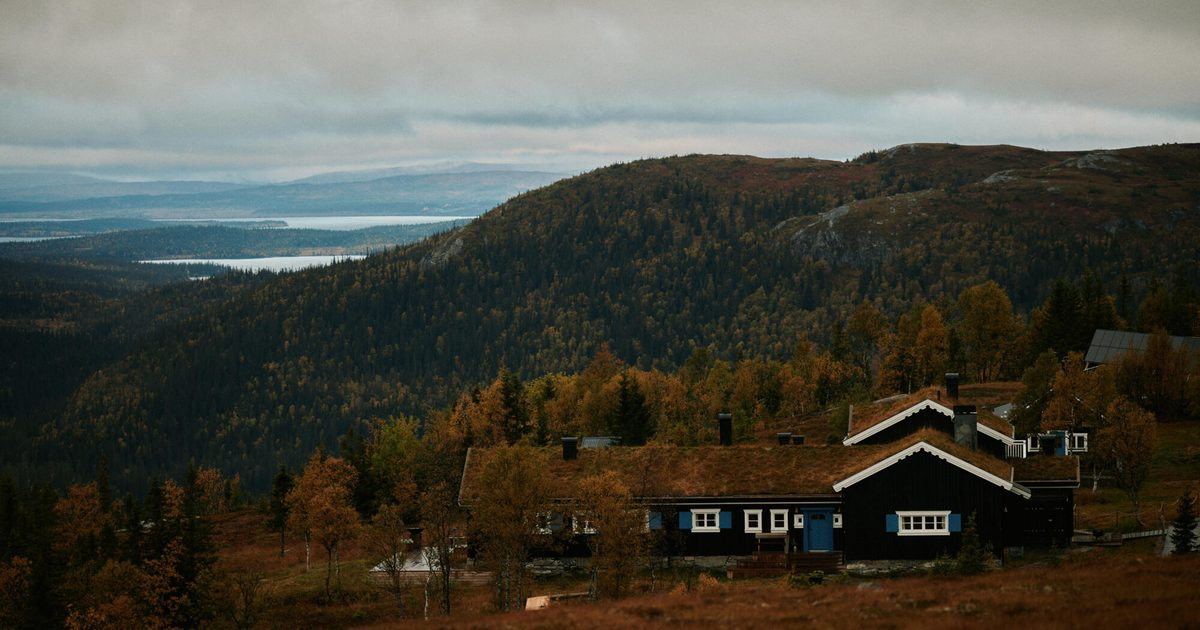
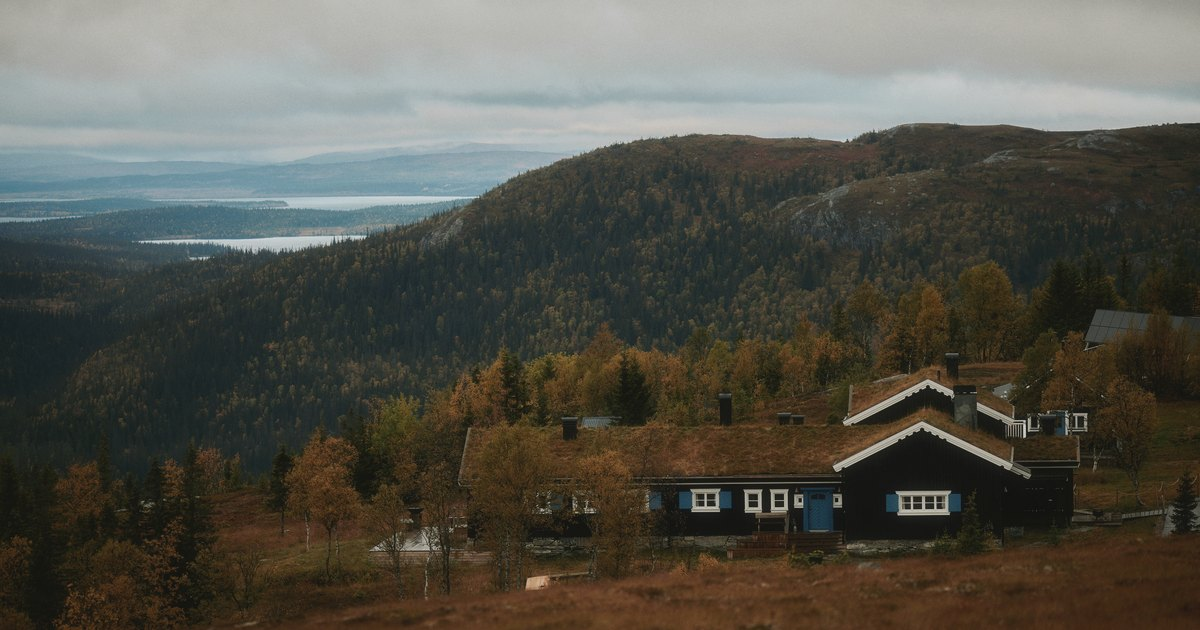
Integritetspolicy på svenska och engelska, och ny delningsbild (Hållfjället i höstljus)
Claude-Session: https://claude.ai/code/session_01PvJLN3KGU2VwY8XGgYZP88

diff --git a/sv/integritetspolicy/index.html b/sv/integritetspolicy/index.html
@@ -1,0 +1,87 @@
+<!DOCTYPE html>
+<html lang="sv">
+<head>
+<meta charset="UTF-8">
+<meta name="viewport" content="width=device-width, initial-scale=1">
+<title>Integritetspolicy – Hållfjället</title>
+<meta name="description" content="Hur Hållfjället tar hand om dina personuppgifter, till exempel när du anmäler dig till nyhetsbrevet.">
+<meta name="theme-color" content="#edebde">
+<link rel="canonical" href="https://www.hallfjallet.se/sv/integritetspolicy/">
+<link rel="alternate" hreflang="sv" href="https://www.hallfjallet.se/sv/integritetspolicy/">
+<link rel="alternate" hreflang="en" href="https://www.hallfjallet.se/en/privacy-policy/">
+<link rel="alternate" hreflang="x-default" href="https://www.hallfjallet.se/en/privacy-policy/">
+<meta property="og:type" content="website">
+<meta property="og:site_name" content="Hållfjället">
+<meta property="og:title" content="Integritetspolicy – Hållfjället">
+<meta property="og:description" content="Hur Hållfjället tar hand om dina personuppgifter, till exempel när du anmäler dig till nyhetsbrevet.">
+<meta property="og:url" content="https://www.hallfjallet.se/sv/integritetspolicy/">
+<meta property="og:image" content="https://www.hallfjallet.se/assets/img/og.jpg">
+<meta property="og:locale" content="sv_SE">
+<meta name="twitter:card" content="summary_large_image">
+<link rel="icon" type="image/png" sizes="32x32" href="/ikon-hf-32.png?v=2">
+<link rel="icon" type="image/png" sizes="16x16" href="/ikon-hf-16.png?v=2">
+<link rel="icon" type="image/png" sizes="192x192" href="/ikon-hf-192.png?v=2">
+<link rel="icon" type="image/x-icon" href="/favicon.ico?v=2">
+<link rel="apple-touch-icon" sizes="180x180" href="/apple-touch-icon.png?v=2">
+<link rel="preload" as="image" href="/assets/img/hallfjallet-logo.png">
+<link rel="preload" href="/assets/fonts/OregonLDO.woff" as="font" type="font/woff" crossorigin>
+<link rel="preload" href="/assets/fonts/SuisseNeue-Regular-WebS.woff" as="font" type="font/woff" crossorigin>
+<link rel="stylesheet" href="/assets/hf.css?v=16">
+</head>
+<body class="sida-policy">
+<a class="skip" href="#innehall">Hoppa till innehållet</a>
+<a class="logga" href="/sv/"><img src="/assets/img/hallfjallet-logo.png" alt="Hållfjället" width="291" height="213"></a>
+<div class="huvud">
+  <a class="sprakval" href="/en/privacy-policy/" hreflang="en" lang="en">English</a>
+  <a class="boka" href="https://online.bookvisit.com/package?channelid=b6e866a4-7126-457c-83b1-7e566d886ac0&amp;langid=1" target="_blank" rel="noopener">Boka</a>
+  <button class="menyknapp" type="button" aria-expanded="false" aria-controls="meny"><span class="sr">Meny</span><svg viewBox="0 0 20 20" aria-hidden="true"><path d="M0 3h20v2H0V3zm0 6h20v2H0V9zm0 6h20v2H0v-2z" fill="currentColor"/></svg></button>
+</div>
+<nav class="meny" id="meny" aria-label="Meny" aria-hidden="true" data-bild="/assets/img/hero-martini-{w}.webp" data-skog="/assets/img/hero-fjallet-vinter-{s}.webp">
+  <button class="stang" type="button"><span class="sr">Stäng menyn</span><svg viewBox="0 0 20 20" aria-hidden="true"><path d="M2 2l16 16M18 2L2 18" stroke="currentColor" stroke-width="2"/></svg></button>
+  <ul>
+      <li><a href="/sv/#hitta-hem-i-det-vilda">Hitta hem i det vilda</a></li>
+      <li><a href="/sv/#mat-dryck">Till bords</a></li>
+      <li><a href="/sv/#bo-hos-oss">Bo hos oss</a></li>
+      <li><a href="/sv/#var-historia">Vår historia</a></li>
+      <li><a href="/sv/#hitta-hit">Hitta hit</a></li>
+      <li><a href="/sv/#boka">Boka</a></li>
+      <li><a href="/sv/nu-pa-hallfjallet/">Aktiviteter på fjället</a></li>
+      <li><a href="/sv/jobba-hos-oss/" aria-current="page">Jobba hos oss</a></li>
+      <li><a href="/sv/#newsletter">Nyhetsbrev</a></li>
+  </ul>
+</nav>
+<main id="innehall">
+<section class="avsnitt policy">
+  <div class="kol">
+    <h1>Integritetspolicy</h1>
+    <div class="text">
+<p class="ingress">Vi är varsamma med dina uppgifter. Här berättar vi kort vilka personuppgifter vi tar emot via hemsidan och hur vi tar hand om dem.</p>
+<h2>Vem ansvarar</h2>
+<p>Hållfjällsgården AB ansvarar för de personuppgifter som beskrivs här. Du når oss på <a class="epost" href="mailto:info@hallfjallet.se">info@hallfjallet.se</a> eller <a class="epost" href="tel:+46647690466">+46&nbsp;647&nbsp;690&nbsp;466</a>.</p>
+<h2>Nyhetsbrevet</h2>
+<p>När du anmäler dig till vårt nyhetsbrev sparar vi ditt förnamn, efternamn och din e-postadress. Vi använder dem bara för att skicka nyhetsbrevet till dig, och vi gör det med ditt samtycke.</p>
+<p>Uppgifterna sparas hos vår leverantör Mailchimp, som kan lagra dem utanför EU. Överföringen sker med det skydd som EU:s regler kräver.</p>
+<p>I varje nyhetsbrev finns en länk där du kan avsluta prenumerationen. Då slutar vi skicka, och vi sparar inte dina uppgifter längre än du prenumererar.</p>
+<h2>När du bokar</h2>
+<p>Bokningar görs via Bookvisit. De uppgifter du lämnar när du bokar använder vi för att ta emot dig och ordna din vistelse. Bookvisit har en egen integritetspolicy som du hittar på bokningssidan.</p>
+<h2>När du skriver till oss</h2>
+<p>Skriver du till oss använder vi dina uppgifter för att svara dig och hjälpa dig med din vistelse.</p>
+<h2>Kakor</h2>
+<p>Hemsidan använder inga kakor (cookies) för statistik eller marknadsföring.</p>
+<h2>Dina rättigheter</h2>
+<p>Du har rätt att få veta vilka uppgifter vi har om dig, och att få dem rättade eller raderade. Hör av dig till oss så hjälper vi dig. Är du inte nöjd med hur vi hanterar dina uppgifter kan du vända dig till Integritetsskyddsmyndigheten (IMY).</p>
+<p class="uppdaterad">Senast uppdaterad i november 2026.</p>
+    </div>
+  </div>
+</section>
+</main>
+<footer class="sidfot">
+  <img class="fotlogga" src="/assets/img/hallfjallet-logo.png" alt="Hållfjället" width="291" height="213" loading="lazy">
+  <p><a href="mailto:info@hallfjallet.se">info@hallfjallet.se</a><span class="prick" aria-hidden="true">·</span><a href="tel:+46647690466">+46 (0) 647 69 04 66</a></p>
+  <p><a href="/sv/#newsletter">Nyhetsbrev</a><span class="prick" aria-hidden="true">·</span><a href="/sv/jobba-hos-oss/">Jobba hos oss</a><span class="prick" aria-hidden="true">·</span><a href="/sv/integritetspolicy/">Integritetspolicy</a></p>
+  <p class="copy">Copyright © 2026<span class="prick" aria-hidden="true">·</span>Hållfjällsgården AB<span class="prick" aria-hidden="true">·</span>All Rights Reserved.</p>
+</footer>
+<button class="till-toppen" type="button"><span class="sr">Till toppen</span><svg viewBox="0 0 14 14" aria-hidden="true"><path d="M2 9.5l5-5 5 5" fill="none" stroke="currentColor" stroke-width="1.4"/></svg></button>
+<script src="/assets/hf.js?v=16" defer></script>
+</body>
+</html>

diff --git a/en/privacy-policy/index.html b/en/privacy-policy/index.html
@@ -1,0 +1,87 @@
+<!DOCTYPE html>
+<html lang="en">
+<head>
+<meta charset="UTF-8">
+<meta name="viewport" content="width=device-width, initial-scale=1">
+<title>Privacy policy – Hållfjället</title>
+<meta name="description" content="How Hållfjället looks after your personal data, for example when you sign up for the newsletter.">
+<meta name="theme-color" content="#edebde">
+<link rel="canonical" href="https://www.hallfjallet.se/en/privacy-policy/">
+<link rel="alternate" hreflang="sv" href="https://www.hallfjallet.se/sv/integritetspolicy/">
+<link rel="alternate" hreflang="en" href="https://www.hallfjallet.se/en/privacy-policy/">
+<link rel="alternate" hreflang="x-default" href="https://www.hallfjallet.se/en/privacy-policy/">
+<meta property="og:type" content="website">
+<meta property="og:site_name" content="Hållfjället">
+<meta property="og:title" content="Privacy policy – Hållfjället">
+<meta property="og:description" content="How Hållfjället looks after your personal data, for example when you sign up for the newsletter.">
+<meta property="og:url" content="https://www.hallfjallet.se/en/privacy-policy/">
+<meta property="og:image" content="https://www.hallfjallet.se/assets/img/og.jpg">
+<meta property="og:locale" content="en_GB">
+<meta name="twitter:card" content="summary_large_image">
+<link rel="icon" type="image/png" sizes="32x32" href="/ikon-hf-32.png?v=2">
+<link rel="icon" type="image/png" sizes="16x16" href="/ikon-hf-16.png?v=2">
+<link rel="icon" type="image/png" sizes="192x192" href="/ikon-hf-192.png?v=2">
+<link rel="icon" type="image/x-icon" href="/favicon.ico?v=2">
+<link rel="apple-touch-icon" sizes="180x180" href="/apple-touch-icon.png?v=2">
+<link rel="preload" as="image" href="/assets/img/hallfjallet-logo.png">
+<link rel="preload" href="/assets/fonts/OregonLDO.woff" as="font" type="font/woff" crossorigin>
+<link rel="preload" href="/assets/fonts/SuisseNeue-Regular-WebS.woff" as="font" type="font/woff" crossorigin>
+<link rel="stylesheet" href="/assets/hf.css?v=16">
+</head>
+<body class="sida-policy">
+<a class="skip" href="#innehall">Skip to content</a>
+<a class="logga" href="/en/"><img src="/assets/img/hallfjallet-logo.png" alt="Hållfjället" width="291" height="213"></a>
+<div class="huvud">
+  <a class="sprakval" href="/sv/integritetspolicy/" hreflang="sv" lang="sv">Svenska</a>
+  <a class="boka" href="https://online.bookvisit.com/package?channelid=b6e866a4-7126-457c-83b1-7e566d886ac0&amp;langid=2" target="_blank" rel="noopener">Book</a>
+  <button class="menyknapp" type="button" aria-expanded="false" aria-controls="meny"><span class="sr">Menu</span><svg viewBox="0 0 20 20" aria-hidden="true"><path d="M0 3h20v2H0V3zm0 6h20v2H0V9zm0 6h20v2H0v-2z" fill="currentColor"/></svg></button>
+</div>
+<nav class="meny" id="meny" aria-label="Menu" aria-hidden="true" data-bild="/assets/img/hero-martini-{w}.webp" data-skog="/assets/img/hero-fjallet-vinter-{s}.webp">
+  <button class="stang" type="button"><span class="sr">Close the menu</span><svg viewBox="0 0 20 20" aria-hidden="true"><path d="M2 2l16 16M18 2L2 18" stroke="currentColor" stroke-width="2"/></svg></button>
+  <ul>
+      <li><a href="/en/#home-in-the-wild">Your home in the wild</a></li>
+      <li><a href="/en/#food-beverage">At the table</a></li>
+      <li><a href="/en/#stay-with-us">Stay with us</a></li>
+      <li><a href="/en/#our-story">Our Story</a></li>
+      <li><a href="/en/#getting-here">Getting here</a></li>
+      <li><a href="/en/#reservation">Reservation</a></li>
+      <li><a href="/en/whats-on/">Activities in the Mountains</a></li>
+      <li><a href="/en/work-with-us/" aria-current="page">Work with us</a></li>
+      <li><a href="/en/#newsletter">Newsletter</a></li>
+  </ul>
+</nav>
+<main id="innehall">
+<section class="avsnitt policy">
+  <div class="kol">
+    <h1>Privacy policy</h1>
+    <div class="text">
+<p class="ingress">We take good care of your information. Here we briefly explain which personal data we receive through the website and how we look after it.</p>
+<h2>Who is responsible</h2>
+<p>Hållfjällsgården AB is responsible for the personal data described here. You can reach us at <a class="epost" href="mailto:info@hallfjallet.se">info@hallfjallet.se</a> or <a class="epost" href="tel:+46647690466">+46&nbsp;647&nbsp;690&nbsp;466</a>.</p>
+<h2>The newsletter</h2>
+<p>When you sign up for our newsletter, we keep your first name, last name and email address. We use them only to send you the newsletter, and we do so with your consent.</p>
+<p>The information is stored with our provider Mailchimp, which may store it outside the EU. Any transfer is made with the safeguards required by EU rules.</p>
+<p>Every newsletter has a link to unsubscribe. When you do, we stop sending, and we do not keep your information for longer than you are subscribed.</p>
+<h2>When you book</h2>
+<p>Bookings are made through Bookvisit. We use the information you give when booking to welcome you and arrange your stay. Bookvisit has its own privacy policy, which you can find on the booking page.</p>
+<h2>When you write to us</h2>
+<p>If you write to us, we use your information to reply and to help you with your stay.</p>
+<h2>Cookies</h2>
+<p>The website does not use cookies for statistics or marketing.</p>
+<h2>Your rights</h2>
+<p>You have the right to know what information we hold about you, and to have it corrected or deleted. Get in touch and we will help you. If you are not happy with how we handle your information, you can contact the Swedish Authority for Privacy Protection (IMY).</p>
+<p class="uppdaterad">Last updated November 2026.</p>
+    </div>
+  </div>
+</section>
+</main>
+<footer class="sidfot">
+  <img class="fotlogga" src="/assets/img/hallfjallet-logo.png" alt="Hållfjället" width="291" height="213" loading="lazy">
+  <p><a href="mailto:info@hallfjallet.se">info@hallfjallet.se</a><span class="prick" aria-hidden="true">·</span><a href="tel:+46647690466">+46 (0) 647 69 04 66</a></p>
+  <p><a href="/en/#newsletter">Newsletter</a><span class="prick" aria-hidden="true">·</span><a href="/en/work-with-us/">Work With Us</a><span class="prick" aria-hidden="true">·</span><a href="/en/privacy-policy/">Privacy Policy</a></p>
+  <p class="copy">Copyright © 2026<span class="prick" aria-hidden="true">·</span>Hållfjällsgården AB<span class="prick" aria-hidden="true">·</span>All Rights Reserved.</p>
+</footer>
+<button class="till-toppen" type="button"><span class="sr">Back to top</span><svg viewBox="0 0 14 14" aria-hidden="true"><path d="M2 9.5l5-5 5 5" fill="none" stroke="currentColor" stroke-width="1.4"/></svg></button>
+<script src="/assets/hf.js?v=16" defer></script>
+</body>
+</html>

diff --git a/sv/index.html b/sv/index.html
@@ -27,7 +27,7 @@
 <link rel="preload" href="/assets/fonts/OregonLDO.woff" as="font" type="font/woff" crossorigin>
 <link rel="preload" href="/assets/fonts/SuisseNeue-Regular-WebS.woff" as="font" type="font/woff" crossorigin>
 <link rel="preload" as="image" href="/assets/img/hero-frusen-sjo-1280.webp" imagesrcset="/assets/img/hero-frusen-sjo-640.webp 640w, /assets/img/hero-frusen-sjo-1280.webp 1280w, /assets/img/hero-frusen-sjo-1920.webp 1920w" imagesizes="100vw">
-<link rel="stylesheet" href="/assets/hf.css?v=15">
+<link rel="stylesheet" href="/assets/hf.css?v=16">
 <script type="application/ld+json">{"@context": "https://schema.org", "@graph": [{"@type": "Hotel", "name": "Hållfjället", "url": "https://www.hallfjallet.se/", "description": "Small mountain hotel and restaurant in roadless country above Ottsjö in the southern Åre mountains, Sweden.", "email": "info@hallfjallet.se", "telephone": "+46647690466", "image": "https://www.hallfjallet.se/assets/img/og.jpg", "sameAs": ["https://instagram.com/hallfjallsgarden"], "address": {"@type": "PostalAddress", "addressLocality": "Ottsjö", "addressRegion": "Jämtland", "addressCountry": "SE"}, "geo": {"@type": "GeoCoordinates", "latitude": 63.25414, "longitude": 12.96636}}, {"@type": "Restaurant", "name": "Hållfjället", "url": "https://www.hallfjallet.se/", "servesCuisine": "Seasonal Nordic", "telephone": "+46647690466", "geo": {"@type": "GeoCoordinates", "latitude": 63.25414, "longitude": 12.96636}, "address": {"@type": "PostalAddress", "addressLocality": "Ottsjö", "addressCountry": "SE"}}]}</script>
 <noscript><style>.hero .hero-rubrik, .hero .hero-pil, .hero .sprak-under, .hero .hero-text::before { animation-play-state: running !important; }</style></noscript>
 </head>
@@ -192,7 +192,7 @@ Ottsjö ligger 20 minuter med bil från Undersåkers tågstation och 30 minuter 
       <div class="nb-falla" aria-hidden="true"><input type="text" name="b_05536de2f7bf0c58fb6f27705_8bca900262" tabindex="-1" value=""></div>
       <button class="knapp nb-skicka" type="submit">Följ våra berättelser<svg viewBox="0 0 16 16" aria-hidden="true"><path d="M1.5 3.5h13v9h-13zM1.5 3.5L8 9l6.5-5.5" fill="none" stroke="currentColor" stroke-width="1.2"/></svg></button>
       <p class="nb-status" role="status" aria-live="polite"></p>
-      <p class="nb-fot">Du kan avsluta prenumerationen när du vill.</p>
+      <p class="nb-fot">Du kan avsluta prenumerationen när du vill. Läs mer i vår <a href="/sv/integritetspolicy/">integritetspolicy</a>.</p>
     </form>
   </div></div>
 </section>
@@ -202,10 +202,10 @@ Ottsjö ligger 20 minuter med bil från Undersåkers tågstation och 30 minuter 
 <footer class="sidfot">
   <img class="fotlogga" src="/assets/img/hallfjallet-logo.png" alt="Hållfjället" width="291" height="213" loading="lazy">
   <p><a href="mailto:info@hallfjallet.se">info@hallfjallet.se</a><span class="prick" aria-hidden="true">·</span><a href="tel:+46647690466">+46 (0) 647 69 04 66</a></p>
-  <p><a href="#newsletter">Nyhetsbrev</a><span class="prick" aria-hidden="true">·</span><a href="/sv/jobba-hos-oss/">Jobba hos oss</a></p>
+  <p><a href="#newsletter">Nyhetsbrev</a><span class="prick" aria-hidden="true">·</span><a href="/sv/jobba-hos-oss/">Jobba hos oss</a><span class="prick" aria-hidden="true">·</span><a href="/sv/integritetspolicy/">Integritetspolicy</a></p>
   <p class="copy">Copyright © 2026<span class="prick" aria-hidden="true">·</span>Hållfjällsgården AB<span class="prick" aria-hidden="true">·</span>All Rights Reserved.</p>
 </footer>
 <button class="till-toppen" type="button"><span class="sr">Till toppen</span><svg viewBox="0 0 14 14" aria-hidden="true"><path d="M2 9.5l5-5 5 5" fill="none" stroke="currentColor" stroke-width="1.4"/></svg></button>
-<script src="/assets/hf.js?v=15" defer></script>
+<script src="/assets/hf.js?v=16" defer></script>
 </body>
 </html>

diff --git a/en/index.html b/en/index.html
@@ -27,7 +27,7 @@
 <link rel="preload" href="/assets/fonts/OregonLDO.woff" as="font" type="font/woff" crossorigin>
 <link rel="preload" href="/assets/fonts/SuisseNeue-Regular-WebS.woff" as="font" type="font/woff" crossorigin>
 <link rel="preload" as="image" href="/assets/img/hero-frusen-sjo-1280.webp" imagesrcset="/assets/img/hero-frusen-sjo-640.webp 640w, /assets/img/hero-frusen-sjo-1280.webp 1280w, /assets/img/hero-frusen-sjo-1920.webp 1920w" imagesizes="100vw">
-<link rel="stylesheet" href="/assets/hf.css?v=15">
+<link rel="stylesheet" href="/assets/hf.css?v=16">
 <script type="application/ld+json">{"@context": "https://schema.org", "@graph": [{"@type": "Hotel", "name": "Hållfjället", "url": "https://www.hallfjallet.se/", "description": "Small mountain hotel and restaurant in roadless country above Ottsjö in the southern Åre mountains, Sweden.", "email": "info@hallfjallet.se", "telephone": "+46647690466", "image": "https://www.hallfjallet.se/assets/img/og.jpg", "sameAs": ["https://instagram.com/hallfjallsgarden"], "address": {"@type": "PostalAddress", "addressLocality": "Ottsjö", "addressRegion": "Jämtland", "addressCountry": "SE"}, "geo": {"@type": "GeoCoordinates", "latitude": 63.25414, "longitude": 12.96636}}, {"@type": "Restaurant", "name": "Hållfjället", "url": "https://www.hallfjallet.se/", "servesCuisine": "Seasonal Nordic", "telephone": "+46647690466", "geo": {"@type": "GeoCoordinates", "latitude": 63.25414, "longitude": 12.96636}, "address": {"@type": "PostalAddress", "addressLocality": "Ottsjö", "addressCountry": "SE"}}]}</script>
 <noscript><style>.hero .hero-rubrik, .hero .hero-pil, .hero .sprak-under, .hero .hero-text::before { animation-play-state: running !important; }</style></noscript>
 </head>
@@ -193,7 +193,7 @@ Contact us and we’ll gladly tell you more.</p>
       <div class="nb-falla" aria-hidden="true"><input type="text" name="b_05536de2f7bf0c58fb6f27705_8bca900262" tabindex="-1" value=""></div>
       <button class="knapp nb-skicka" type="submit">Follow our stories<svg viewBox="0 0 16 16" aria-hidden="true"><path d="M1.5 3.5h13v9h-13zM1.5 3.5L8 9l6.5-5.5" fill="none" stroke="currentColor" stroke-width="1.2"/></svg></button>
       <p class="nb-status" role="status" aria-live="polite"></p>
-      <p class="nb-fot">You can unsubscribe at any time.</p>
+      <p class="nb-fot">You can unsubscribe at any time. Read more in our <a href="/en/privacy-policy/">privacy policy</a>.</p>
     </form>
   </div></div>
 </section>
@@ -203,10 +203,10 @@ Contact us and we’ll gladly tell you more.</p>
 <footer class="sidfot">
   <img class="fotlogga" src="/assets/img/hallfjallet-logo.png" alt="Hållfjället" width="291" height="213" loading="lazy">
   <p><a href="mailto:info@hallfjallet.se">info@hallfjallet.se</a><span class="prick" aria-hidden="true">·</span><a href="tel:+46647690466">+46 (0) 647 69 04 66</a></p>
-  <p><a href="#newsletter">Newsletter</a><span class="prick" aria-hidden="true">·</span><a href="/en/work-with-us/">Work With Us</a></p>
+  <p><a href="#newsletter">Newsletter</a><span class="prick" aria-hidden="true">·</span><a href="/en/work-with-us/">Work With Us</a><span class="prick" aria-hidden="true">·</span><a href="/en/privacy-policy/">Privacy Policy</a></p>
   <p class="copy">Copyright © 2026<span class="prick" aria-hidden="true">·</span>Hållfjällsgården AB<span class="prick" aria-hidden="true">·</span>All Rights Reserved.</p>
 </footer>
 <button class="till-toppen" type="button"><span class="sr">Back to top</span><svg viewBox="0 0 14 14" aria-hidden="true"><path d="M2 9.5l5-5 5 5" fill="none" stroke="currentColor" stroke-width="1.4"/></svg></button>
-<script src="/assets/hf.js?v=15" defer></script>
+<script src="/assets/hf.js?v=16" defer></script>
 </body>
 </html>

diff --git a/sv/nu-pa-hallfjallet/index.html b/sv/nu-pa-hallfjallet/index.html
@@ -26,7 +26,7 @@
 <link rel="preload" as="image" href="/assets/img/hallfjallet-logo.png">
 <link rel="preload" href="/assets/fonts/OregonLDO.woff" as="font" type="font/woff" crossorigin>
 <link rel="preload" href="/assets/fonts/SuisseNeue-Regular-WebS.woff" as="font" type="font/woff" crossorigin>
-<link rel="stylesheet" href="/assets/hf.css?v=15">
+<link rel="stylesheet" href="/assets/hf.css?v=16">
 </head>
 <body class="sida-dagar">
 <a class="skip" href="#innehall">Hoppa till innehållet</a>
@@ -166,10 +166,10 @@ En eld görs upp, kaffepannan åker fram och så småningom vankas något varmt 
 <footer class="sidfot">
   <img class="fotlogga" src="/assets/img/hallfjallet-logo.png" alt="Hållfjället" width="291" height="213" loading="lazy">
   <p><a href="mailto:info@hallfjallet.se">info@hallfjallet.se</a><span class="prick" aria-hidden="true">·</span><a href="tel:+46647690466">+46 (0) 647 69 04 66</a></p>
-  <p><a href="/sv/#newsletter">Nyhetsbrev</a><span class="prick" aria-hidden="true">·</span><a href="/sv/jobba-hos-oss/">Jobba hos oss</a></p>
+  <p><a href="/sv/#newsletter">Nyhetsbrev</a><span class="prick" aria-hidden="true">·</span><a href="/sv/jobba-hos-oss/">Jobba hos oss</a><span class="prick" aria-hidden="true">·</span><a href="/sv/integritetspolicy/">Integritetspolicy</a></p>
   <p class="copy">Copyright © 2026<span class="prick" aria-hidden="true">·</span>Hållfjällsgården AB<span class="prick" aria-hidden="true">·</span>All Rights Reserved.</p>
 </footer>
 <button class="till-toppen" type="button"><span class="sr">Till toppen</span><svg viewBox="0 0 14 14" aria-hidden="true"><path d="M2 9.5l5-5 5 5" fill="none" stroke="currentColor" stroke-width="1.4"/></svg></button>
-<script src="/assets/hf.js?v=15" defer></script>
+<script src="/assets/hf.js?v=16" defer></script>
 </body>
 </html>

diff --git a/sv/jobba-hos-oss/index.html b/sv/jobba-hos-oss/index.html
@@ -26,7 +26,7 @@
 <link rel="preload" as="image" href="/assets/img/hallfjallet-logo.png">
 <link rel="preload" href="/assets/fonts/OregonLDO.woff" as="font" type="font/woff" crossorigin>
 <link rel="preload" href="/assets/fonts/SuisseNeue-Regular-WebS.woff" as="font" type="font/woff" crossorigin>
-<link rel="stylesheet" href="/assets/hf.css?v=15">
+<link rel="stylesheet" href="/assets/hf.css?v=16">
 </head>
 <body class="sida-jobb">
 <a class="skip" href="#innehall">Hoppa till innehållet</a>
@@ -122,10 +122,10 @@
 <footer class="sidfot">
   <img class="fotlogga" src="/assets/img/hallfjallet-logo.png" alt="Hållfjället" width="291" height="213" loading="lazy">
   <p><a href="mailto:info@hallfjallet.se">info@hallfjallet.se</a><span class="prick" aria-hidden="true">·</span><a href="tel:+46647690466">+46 (0) 647 69 04 66</a></p>
-  <p><a href="/sv/#newsletter">Nyhetsbrev</a><span class="prick" aria-hidden="true">·</span><a href="/sv/jobba-hos-oss/">Jobba hos oss</a></p>
+  <p><a href="/sv/#newsletter">Nyhetsbrev</a><span class="prick" aria-hidden="true">·</span><a href="/sv/jobba-hos-oss/">Jobba hos oss</a><span class="prick" aria-hidden="true">·</span><a href="/sv/integritetspolicy/">Integritetspolicy</a></p>
   <p class="copy">Copyright © 2026<span class="prick" aria-hidden="true">·</span>Hållfjällsgården AB<span class="prick" aria-hidden="true">·</span>All Rights Reserved.</p>
 </footer>
 <button class="till-toppen" type="button"><span class="sr">Till toppen</span><svg viewBox="0 0 14 14" aria-hidden="true"><path d="M2 9.5l5-5 5 5" fill="none" stroke="currentColor" stroke-width="1.4"/></svg></button>
-<script src="/assets/hf.js?v=15" defer></script>
+<script src="/assets/hf.js?v=16" defer></script>
 </body>
 </html>

diff --git a/en/whats-on/index.html b/en/whats-on/index.html
@@ -26,7 +26,7 @@
 <link rel="preload" as="image" href="/assets/img/hallfjallet-logo.png">
 <link rel="preload" href="/assets/fonts/OregonLDO.woff" as="font" type="font/woff" crossorigin>
 <link rel="preload" href="/assets/fonts/SuisseNeue-Regular-WebS.woff" as="font" type="font/woff" crossorigin>
-<link rel="stylesheet" href="/assets/hf.css?v=15">
+<link rel="stylesheet" href="/assets/hf.css?v=16">
 </head>
 <body class="sida-dagar">
 <a class="skip" href="#innehall">Skip to content</a>
@@ -163,10 +163,10 @@
 <footer class="sidfot">
   <img class="fotlogga" src="/assets/img/hallfjallet-logo.png" alt="Hållfjället" width="291" height="213" loading="lazy">
   <p><a href="mailto:info@hallfjallet.se">info@hallfjallet.se</a><span class="prick" aria-hidden="true">·</span><a href="tel:+46647690466">+46 (0) 647 69 04 66</a></p>
-  <p><a href="/en/#newsletter">Newsletter</a><span class="prick" aria-hidden="true">·</span><a href="/en/work-with-us/">Work With Us</a></p>
+  <p><a href="/en/#newsletter">Newsletter</a><span class="prick" aria-hidden="true">·</span><a href="/en/work-with-us/">Work With Us</a><span class="prick" aria-hidden="true">·</span><a href="/en/privacy-policy/">Privacy Policy</a></p>
   <p class="copy">Copyright © 2026<span class="prick" aria-hidden="true">·</span>Hållfjällsgården AB<span class="prick" aria-hidden="true">·</span>All Rights Reserved.</p>
 </footer>
 <button class="till-toppen" type="button"><span class="sr">Back to top</span><svg viewBox="0 0 14 14" aria-hidden="true"><path d="M2 9.5l5-5 5 5" fill="none" stroke="currentColor" stroke-width="1.4"/></svg></button>
-<script src="/assets/hf.js?v=15" defer></script>
+<script src="/assets/hf.js?v=16" defer></script>
 </body>
 </html>

diff --git a/en/work-with-us/index.html b/en/work-with-us/index.html
@@ -26,7 +26,7 @@
 <link rel="preload" as="image" href="/assets/img/hallfjallet-logo.png">
 <link rel="preload" href="/assets/fonts/OregonLDO.woff" as="font" type="font/woff" crossorigin>
 <link rel="preload" href="/assets/fonts/SuisseNeue-Regular-WebS.woff" as="font" type="font/woff" crossorigin>
-<link rel="stylesheet" href="/assets/hf.css?v=15">
+<link rel="stylesheet" href="/assets/hf.css?v=16">
 </head>
 <body class="sida-jobb">
 <a class="skip" href="#innehall">Skip to content</a>
@@ -124,10 +124,10 @@
 <footer class="sidfot">
   <img class="fotlogga" src="/assets/img/hallfjallet-logo.png" alt="Hållfjället" width="291" height="213" loading="lazy">
   <p><a href="mailto:info@hallfjallet.se">info@hallfjallet.se</a><span class="prick" aria-hidden="true">·</span><a href="tel:+46647690466">+46 (0) 647 69 04 66</a></p>
-  <p><a href="/en/#newsletter">Newsletter</a><span class="prick" aria-hidden="true">·</span><a href="/en/work-with-us/">Work With Us</a></p>
+  <p><a href="/en/#newsletter">Newsletter</a><span class="prick" aria-hidden="true">·</span><a href="/en/work-with-us/">Work With Us</a><span class="prick" aria-hidden="true">·</span><a href="/en/privacy-policy/">Privacy Policy</a></p>
   <p class="copy">Copyright © 2026<span class="prick" aria-hidden="true">·</span>Hållfjällsgården AB<span class="prick" aria-hidden="true">·</span>All Rights Reserved.</p>
 </footer>
 <button class="till-toppen" type="button"><span class="sr">Back to top</span><svg viewBox="0 0 14 14" aria-hidden="true"><path d="M2 9.5l5-5 5 5" fill="none" stroke="currentColor" stroke-width="1.4"/></svg></button>
-<script src="/assets/hf.js?v=15" defer></script>
+<script src="/assets/hf.js?v=16" defer></script>
 </body>
 </html>

diff --git a/assets/hf.css b/assets/hf.css
@@ -381,3 +381,13 @@ a.epost { text-decoration: underline; text-underline-offset: 3px; text-decoratio
 @media (prefers-reduced-motion: reduce) {
   .bildspel img, .las-mer .lm-more, .las-mer .lm-inner > *, .meny, .logga, .huvud { transition: none !important; }
 }
+
+/* Integritetspolicyn: en lugn textsida, vänsterställd, med små versaler som rubriker */
+.sida-policy .policy { padding-top: 160px; align-items: flex-start; }
+.policy .kol { text-align: left; }
+.policy h1 { text-align: center; margin-bottom: 26px; }
+.policy .ingress { text-align: center; margin-bottom: 36px; }
+.policy h2 { font-size: 14px; letter-spacing: .14em; margin: 32px 0 10px; }
+.policy .uppdaterad { margin-top: 36px; font-size: 13px; opacity: .7; }
+.nb-fot a { color: inherit; text-decoration: underline; text-underline-offset: 3px; text-decoration-thickness: 1px; }
+@media (max-width: 800px) { .sida-policy .policy { padding-top: 130px; } }

diff --git a/404.html b/404.html
@@ -10,7 +10,7 @@
 <link rel="icon" type="image/png" sizes="16x16" href="/ikon-hf-16.png?v=2">
 <link rel="icon" type="image/png" sizes="192x192" href="/ikon-hf-192.png?v=2">
 <link rel="icon" type="image/x-icon" href="/favicon.ico?v=2">
-<link rel="stylesheet" href="/assets/hf.css?v=15">
+<link rel="stylesheet" href="/assets/hf.css?v=16">
 </head>
 <body class="sida-enkel">
 <main class="enkel">

diff --git a/index.html b/index.html
@@ -29,7 +29,7 @@
     } catch (e) {}
   })();
 </script>
-<link rel="stylesheet" href="/assets/hf.css?v=15">
+<link rel="stylesheet" href="/assets/hf.css?v=16">
 </head>
 <body class="sida-enkel">
 <main class="enkel">

diff --git a/CLAUDE.md b/CLAUDE.md
@@ -38,11 +38,12 @@ The home pages copy the structure of the WordPress site: one long page with a sl
 
 - **Section ids** — Swedish: `hitta-hem-i-det-vilda`, `mat-dryck`, `bo-hos-oss`, `var-historia`, `hitta-hit`, `boka`, `newsletter`. English: `home-in-the-wild`, `food-beverage`, `stay-with-us`, `our-story`, `getting-here`, `reservation`, `newsletter`.
 - **Slideshow** — the `<img>` tags inside `.bildspel`, in order. The same 13 images, in the same order, in both languages and on phone and computer. Only the first has `src`; the rest have `data-src`/`data-srcset` and load just before they are shown. `--pos-d` / `--pos-m` set the crop on computer / phone. `data-ljus-d` / `data-ljus-m` = `1` when the logo and BOKA should be light on that image (dark image behind them), `0` when they should be dark. Timing is in `assets/hf.js` (first change after 2 s, then 3.5 s; 1.6 s fade in `hf.css`). Order agreed with her: the frozen lake first, then the martini, then the winter mountain with the lodge, so the winter pictures are spread out.
-- **Title on the slideshow** — `.hero-text` shows "Hitta hem i det vilda" / "Your home in the wild" (same wording as the section heading and the menu, her choice) and a small arrow to the first section when the page opens, then stays for the first three slides (fading as the fourth arrives) or until the visitor scrolls (`assets/hf.js`). Agreed with her: no extra line under the title. Light grey (`--gra` in `hf.css`) is the one tone for logo, BOKA, language switch, menu and title on dark images; the logo is drawn through a CSS mask so it matches exactly. Logo, BOKA, language switch and menu icon all change tone with the same 1 s transition, and pages whose top image is dark start with `class="ljus-huvud ljus-logga"` on `<html>` so nothing shifts while loading. Oregon LDO uses `font-display: block` and the fonts and logo are preloaded, so the header is in place from the first moment; the title (and the slideshow timer) only start once the first photo has loaded (`.hero.redo`), so only the title fades in. BOKA hover/tap switches to the opposite tone (never red). No red hover anywhere: links fade slightly, framed buttons (`.knapp`) fill dark with light text. The title keeps light grey on every slide with a dark soft shade behind it (her choice over switching to dark). No focus box on tap/click anywhere (`:focus:not(:focus-visible)`); the menu only moves focus when opened by keyboard. `hf.css`/`hf.js` are linked with `?v=15`; bump it when they change so phones don't keep an old copy.
+- **Title on the slideshow** — `.hero-text` shows "Hitta hem i det vilda" / "Your home in the wild" (same wording as the section heading and the menu, her choice) and a small arrow to the first section when the page opens, then stays for the first three slides (fading as the fourth arrives) or until the visitor scrolls (`assets/hf.js`). Agreed with her: no extra line under the title. Light grey (`--gra` in `hf.css`) is the one tone for logo, BOKA, language switch, menu and title on dark images; the logo is drawn through a CSS mask so it matches exactly. Logo, BOKA, language switch and menu icon all change tone with the same 1 s transition, and pages whose top image is dark start with `class="ljus-huvud ljus-logga"` on `<html>` so nothing shifts while loading. Oregon LDO uses `font-display: block` and the fonts and logo are preloaded, so the header is in place from the first moment; the title (and the slideshow timer) only start once the first photo has loaded (`.hero.redo`), so only the title fades in. BOKA hover/tap switches to the opposite tone (never red). No red hover anywhere: links fade slightly, framed buttons (`.knapp`) fill dark with light text. The title keeps light grey on every slide with a dark soft shade behind it (her choice over switching to dark). No focus box on tap/click anywhere (`:focus:not(:focus-visible)`); the menu only moves focus when opened by keyboard. `hf.css`/`hf.js` are linked with `?v=16`; bump it when they change so phones don't keep an old copy.
 - **Menu background** — a double exposure she loved: `hero-martini` (`data-bild` on `.meny`) with `hero-fjallet-vinter` (`data-skog`) at 27 % opacity on top (`.meny::before` in `hf.css`), loaded by `hf.js` when the menu first opens. Same attributes on all six new-look pages. She may want this combination again for Berättelser från fjället.
 - **Newsletter section** — background is a second double exposure she chose (D1): `hero-sallskapsrum` with `lake-mist` at 38 % on top and a dark fade from the top to soften the window; the text sits centred at the top, over the window, with no card and no frame round the "Följ våra berättelser" link (her choice): light grey text on a soft dark shade, so the table, chess set and book show below it (`.nyhetsbrev` in `hf.css`).
 - **Boka section** — the opening times sit as their own small-caps line (`.fakta`) under the heading; the booking link is `knapp boka-lank-stor` (no frame, underlined, like BOKA, "Gå till bokningssidan →" / "Go to booking page →"); the email in the text is a link (`a.epost`); the contact lines below are smaller and muted. A "Bra att veta" / "Good to know" block (`.bra-att-veta`) before the booking link uses the wording from their Bookvisit package texts ("Fyrbenta vänner" / "Guests on four legs", "Reser du med barn?" / "Travelling with children?", recommended age 8+), with her details: two dog rooms with their own entrance, not bookable online (email us), 950 kr per stay incl. bed, towel and a little extra care (confirmed by her; Bookvisit still said 500 kr per stay and should be updated by her). Language and tone are very important to her: reuse their own wording. All text columns on the home pages are at most 640px wide (`.avsnitt .kol`), like a book page (her choice).
-- **Share text** — what shows when the link is shared (`og:title`/`og:description` on the home pages and the language picker) is her choice: "Hållfjället – Hitta hem i det vilda" / "Ett litet hotell och restaurang i väglöst land." (English: "Your home in the wild" / "A small hotel and restaurant in roadless country."). The `<title>` and `description` for Google keep the plain words (fjällhotell, restaurang, Ottsjö, Åre). `og:image` points at www.hallfjallet.se, so the share image only appears once the domain is moved.
+- **Share text** — what shows when the link is shared (`og:title`/`og:description` on the home pages and the language picker) is her choice: "Hållfjället – Hitta hem i det vilda" / "Ett litet hotell och restaurang i väglöst land." (English: "Your home in the wild" / "A small hotel and restaurant in roadless country."). The `<title>` and `description` for Google keep the plain words (fjällhotell, restaurang, Ottsjö, Åre). `og:image` (`assets/img/og.jpg`, 1200×630, her choice: the lodge in autumn light, softened) points at www.hallfjallet.se, so the share image only appears once the domain is moved.
+- **Privacy policy** — `sv/integritetspolicy/` and `en/privacy-policy/` (new look, plain text page, built from the jobs page shell). Linked from the footer of every new-look page and under the newsletter form. Content drafted by Claude from how the site actually works (Mailchimp newsletter, Bookvisit bookings, email, no cookies); she must approve it, and it must be updated if cookies or analytics are added.
 - **Menu wording** — the menu items match the section headings: "Till bords" / "At the table" (not "Mat & Dryck"), "Hitta hem i det vilda" / "Your home in the wild" (her choice).
 - **Language switch** — chosen by her: `.sprakval` ("English" / "Svenska", same size as BOKA) next to BOKA on every new-look page, linking to the counterpart page, plus `.sprak-under` ("Svenska · English", current language underlined) under the title on the two home pages. No language item in the menu any more.
 - **Softened photos** — so the photos sit together with the dreamy ones (martini, winter lodge), six home-page photos were given a very light softening in place (gentle glow, slightly muted colour and contrast, a touch lifted black): `hero-vinkallare`, `hero-majrova`, `hero-ripa`, `hero-koksbord`, `karta`, `hero-dukning`. Her choice: "pyttelite", no grain. The black-and-white team photo `laget` got a slightly stronger version (more glow, lifted blacks, lower contrast) at her request. The untreated versions are in git history (before the commit "Mjukare bilder"). Give new photos the same light touch if they feel harsh next to the others.
